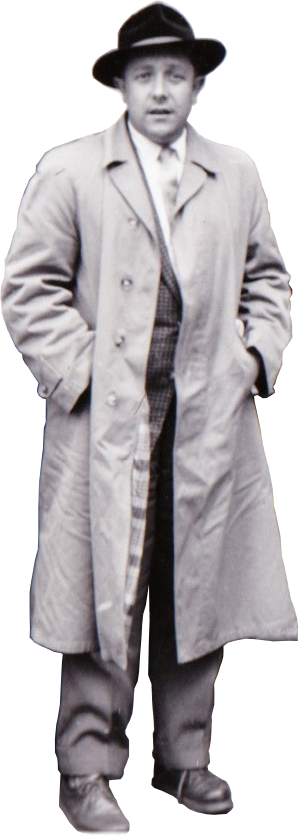
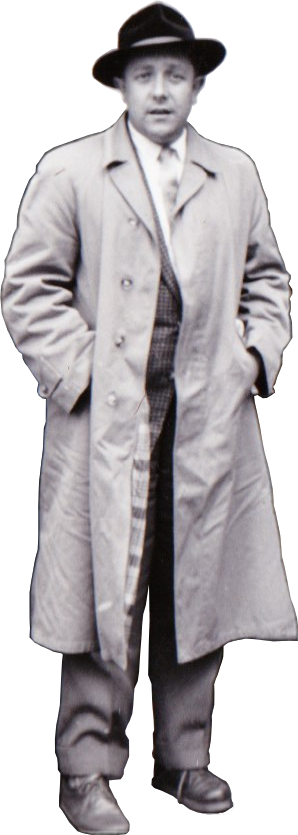
x

diff --git a/index.html b/index.html
@@ -109,9 +109,9 @@
 						</div>
 					</div>
 					<div class="col-2">
-						<figure class="">
-							<img src="./src/img/erwin1958.jpg" alt="Schwarzweißbild von Erwin Rickert">
-							<figcaption>Erwin Rickert</figcaption>
+						<figure id="index_rickert">
+							<img src="./src/img/erwin1958.png" alt="Schwarzweißbild von Erwin Rickert">
+							<figcaption></figcaption>
 						</figure>
 					</div>
 				</div>

diff --git a/src/css/styles.css b/src/css/styles.css
@@ -1775,6 +1775,9 @@ p {
   height:50px;
 }
 
+#index_rickert {
+}
+
 #rickert_sign {
   max-width: 100%;
   display: block;
